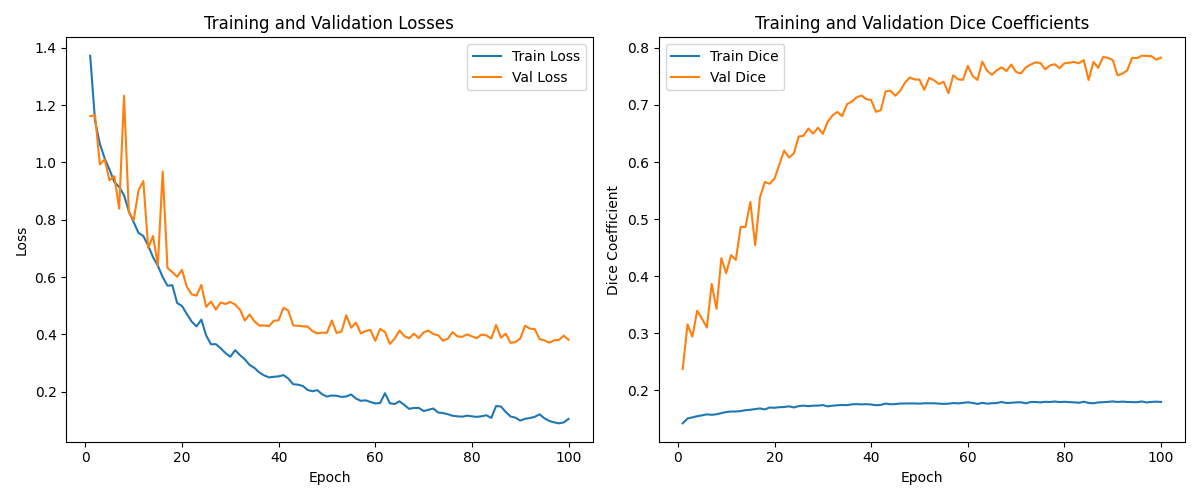
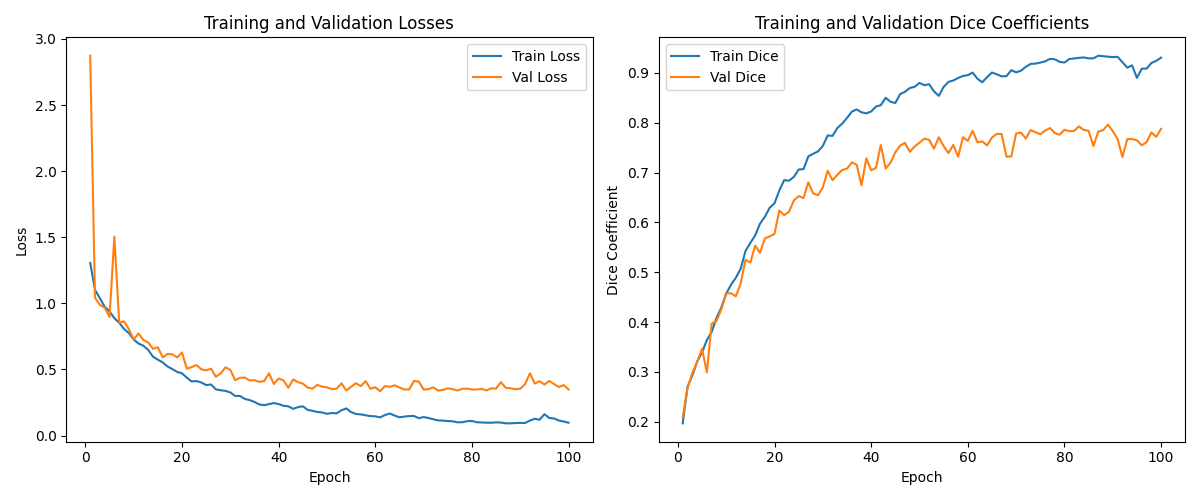
Fix saving best model and calculating dice score

diff --git a/utils/trainer.py b/utils/trainer.py
@@ -1,4 +1,5 @@
 import glob
+import re
 
 import torch
 import os
@@ -31,21 +32,26 @@ class Trainer:
 
     def save_best_model(self, epoch, dice):
         if dice > self.best_dice:
-            self.best_dice = dice
-            self.best_epoch = epoch
-            self.best_model = self.model.state_dict()
-
             log_directory = 'log'
-            os.makedirs(log_directory, exist_ok=True)
-
-            # Remove previous best model
             previous_model = glob.glob(f'{log_directory}/best_model_dice_*.pth')
-            for model in previous_model:
-                os.remove(model)
+            model_deleted = False  # Track if a model was deleted
 
-            # Specify the file path for saving the model
-            filename = f'{log_directory}/best_model_dice_{dice:.4f}.pth'
-            torch.save(self.best_model, filename)
+            for model in previous_model:
+                match = re.search(r'best_model_dice_([\d.]+)\.pth', model)
+                if match:
+                    prev_dice = float(match.group(1))
+                    if prev_dice < dice:  # Delete only if the previous model has a worse Dice score
+                        os.remove(model)
+                        model_deleted = True
+
+            # Save only if a previous model was deleted
+            if model_deleted:
+                self.best_dice = dice
+                self.best_epoch = epoch
+                self.best_model = self.model.state_dict()
+
+                filename = f'{log_directory}/best_model_dice_{dice:.4f}.pth'
+                torch.save(self.best_model, filename)
 
     def train(self, train_loader, val_loader):
         for epoch in range(self.num_epochs):
@@ -63,7 +69,7 @@ class Trainer:
 
                 outputs = self.model(images)
                 loss = self.criterion(outputs, masks)
-                dice = self.dice_coeff(torch.sigmoid(outputs), masks)
+                dice = self.dice_coeff(outputs, masks)
 
 
                 loss.backward()
